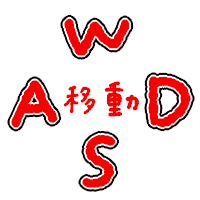
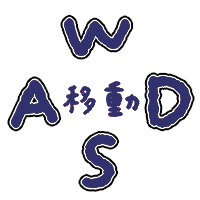
ロックオンとレティクルの管理方法を変更、UIを青色で統一

diff --git a/project/application/player/Player.h b/project/application/player/Player.h
@@ -38,13 +38,11 @@ public:
 
 	// getter
 	Object3d* GetObject3d() { return object3d_.get(); }
+	Object3d* GetReticle() { return reticle_.get(); }
 	Camera* GetCamera() { return camera_; }
 	BasePlayerState* GetPlayerState() { return state_.get(); }
 	InGameUI* GetInGameUI() { return inGameUI_.get(); }
-	//const std::unique_ptr<Sprite>& GetMoveSprite() const { return moveSprite_; }
-	//const std::vector<std::unique_ptr<Sprite>>& GetHpSprite() const { return hpSprite_; }
-	//const std::vector<std::unique_ptr<Sprite>>& GetBeamSprite() const { return beamSprite_; }
-
+	LockOn* GetLockOn() { return lockOn_.get(); }
 
 private:
 
@@ -66,6 +64,15 @@ private:
 	// UI
 	std::unique_ptr<InGameUI> inGameUI_;
 
+	// 3Dレティクルオブジェクト
+	std::unique_ptr<Object3d> reticle_;
+	// 3Dレティクルのワールドトランスフォーム
+	QuaternionTransform reticleTransform_;
+	// 自機から3Dレティクルへのオフセット
+	Vector3 reticleOffset_ = { 0.0f,0.0f,10.0f };
+
+	// ロックオンのポインタ
+	std::unique_ptr<LockOn> lockOn_;
 	
 #ifdef _DEBUG
 	std::unique_ptr<DebugDraw> debugDraw;

diff --git a/project/application/lockOn/LockOn.cpp b/project/application/lockOn/LockOn.cpp
@@ -6,11 +6,11 @@
 void LockOn::Initialize()
 {
 	// 3Dレティクルスプライトの初期化
-	TextureManager::GetInstance()->LoadTexture("resources/sprite/circle.png");
+	TextureManager::GetInstance()->LoadTexture("resources/UI/lockOn.png");
 	reticleSprite_ = std::make_unique<Sprite>();
 	reticleSprite_->Initialize(spriteFilePath_);
 	reticleSprite_->SetAnchorPoint(Vector2{ 0.5f,0.5f });
-	reticleSprite_->SetSize(Vector2{ 64.0f,64.0f });
+	reticleSprite_->SetSize(Vector2{ 120.0f,120.0f });
 }
 
 void LockOn::Update()
@@ -27,7 +27,7 @@ void LockOn::Draw()
 	}
 }
 
-void LockOn::LockOnTarget(const std::unique_ptr<Object3d>& reticle)
+void LockOn::LockOnTarget(Object3d* reticle)
 {
 	// レティクルの座標をスクリーン座標に変換
 	Vector3 translate = Project(Vector3{ 0.0f,0.0f,0.0f }, 0.0f, 0.0f, 1280.0f, 720.0f, reticle->GetWorldViewProjection());

diff --git a/project/application/player/NormalPlayer.cpp b/project/application/player/NormalPlayer.cpp
@@ -32,18 +32,12 @@ void NormalPlayer::Initialize(Player* player)
 	isHit_ = false;
 
 	// 3Dレティクルオブジェクトの初期化
-	reticle_ = std::make_unique<Object3d>();
-	reticle_->Initialize();
-	reticle_->SetModel(filePath_);
-	reticle_->SetEnvironmentMapTextureFilePath("resources/human/white.png");
-	reticle_->SetTransform(transform_);
-	reticle_->SetIsRailCamera(true);
+	reticle_ = player_->GetReticle();
 	reticleTransform_ = transform_;
 	reticleTransform_.translate = Vector3Add(reticleTransform_.translate, reticleOffset_);
 
 	// ロックオンマークを初期化
-	lockOn_ = std::make_unique<LockOn>();
-	lockOn_->Initialize();
+	lockOn_ = player_->GetLockOn();
 
 	// UIスプライトの初期化
 	inGameUI_ = player_->GetInGameUI();

diff --git a/project/application/player/Player.cpp b/project/application/player/Player.cpp
@@ -21,6 +21,19 @@ void Player::Initialize(const QuaternionTransform& transform, const std::string&
 	transform_ = transform;
 	isHit_ = false;
 
+	// 3Dレティクルオブジェクトの初期化
+	reticle_ = std::make_unique<Object3d>();
+	reticle_->Initialize();
+	reticle_->SetModel(filePath_);
+	reticle_->SetEnvironmentMapTextureFilePath("resources/human/white.png");
+	reticle_->SetTransform(transform_);
+	reticle_->SetIsRailCamera(true);
+	reticleTransform_ = transform_;
+	reticleTransform_.translate = Vector3Add(reticleTransform_.translate, reticleOffset_);
+
+	lockOn_ = std::make_unique<LockOn>();
+	lockOn_->Initialize();
+
 	// 引数で受け取ってメンバ変数に記録
 	camera_ = camera;
 

diff --git a/project/application/player/NormalPlayer.h b/project/application/player/NormalPlayer.h
@@ -72,7 +72,7 @@ private:
 	const float kMoveLimitX_ = 7.0f;
 	const float kMoveLimitY_ = 4.0f;
 	// 3Dレティクルオブジェクト
-	std::unique_ptr<Object3d> reticle_;
+	Object3d* reticle_;
 	// 3Dレティクルのワールドトランスフォーム
 	QuaternionTransform reticleTransform_;
 	Matrix4x4 reticleWorldMatrix;
@@ -83,7 +83,7 @@ private:
 	// 自機から3Dレティクルへのオフセット
 	Vector3 reticleOffset_ = { 0.0f,0.0f,10.0f };
 	// ロックオンのポインタ
-	std::unique_ptr<LockOn> lockOn_;
+	LockOn* lockOn_;
 
 	// ビームの弾数
 	const int kBeamBulletNum = 10;

diff --git a/project/application/lockOn/LockOn.h b/project/application/lockOn/LockOn.h
@@ -17,7 +17,7 @@ public:
 	void Finalize();
 
 	// ターゲット算出
-	void LockOnTarget(const std::unique_ptr<Object3d>& reticle);
+	void LockOnTarget(Object3d* reticle);
 
 	// getter
 	BaseEnemy* GetTarget() const { return target_; }
@@ -26,7 +26,7 @@ private:
 	// 当たり判定フラグ
 	bool isHit_;
 	// ファイル名
-	std::string spriteFilePath_ = "resources/sprite/circle.png";
+	std::string spriteFilePath_ = "resources/UI/lockOn.png";
 	// 弾の速度
 	// 3Dレティクル用のスプライト
 	std::unique_ptr<Sprite> reticleSprite_;
